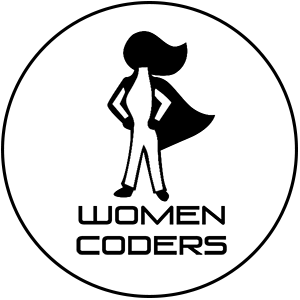
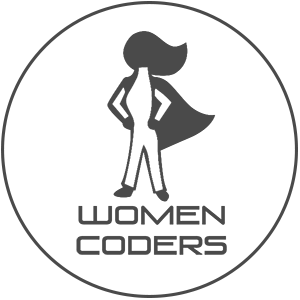
Changed Sponsorship to Scholarship
Circular buttons are now a different color

diff --git a/WOMENCODER-copy/css/responsive.css b/WOMENCODER-copy/css/responsive.css
@@ -6,14 +6,10 @@
 .mail-message [contenteditable="true"]{margin-bottom: 25px;}
 .navbar-nav > li {padding-left: 50px;}
 .item-container h4 {
-<<<<<<< HEAD
-       font-size: 5.5em;        
-=======
        font-size: 40px;        
->>>>>>> 25ee754b8cf29ba2ee0662ec59c669e860551e29
-    line-height: 1em;
-    margin-bottom: 40px;
-    margin-top: 40px;
+		line-height: 1em;
+		margin-bottom: 40px;
+		margin-top: 40px;
 	}
 	
 
@@ -23,14 +19,10 @@
 	.navbar-collapse {width: 100%;}
 	.navbar-collapse li{display:table;padding:0;margin:0 auto;}
 	.item-container h4 {
-<<<<<<< HEAD
-       font-size: 4em;        
-=======
-       font-size: 30px;        
->>>>>>> 25ee754b8cf29ba2ee0662ec59c669e860551e29
-    line-height: 1em;
-    margin-bottom: 40px;
-    margin-top: 40px;
+		font-size: 30px;        
+		line-height: 1em;
+		margin-bottom: 40px;
+		margin-top: 40px;
 	}
 	#heading-slider-style1 ,#heading-slider-style2{width:100%;	}
 	#about .avatar,#project-testimonial .avatar{width:100px;}
@@ -88,14 +80,10 @@
 @media (max-width: 480px){
 	body {font-size: 16px;}
 	.item-container h4 {
-<<<<<<< HEAD
-       font-size: 3em;        
-=======
-       font-size: 20px;        
->>>>>>> 25ee754b8cf29ba2ee0662ec59c669e860551e29
-    line-height: 1em;
-    margin-bottom: 40px;
-    margin-top: 40px;
+        font-size: 20px;        
+		line-height: 1em;
+		margin-bottom: 40px;
+		margin-top: 40px;
 	}
 	#heading-slider-style1 ,#heading-slider-style2{width:100%;	}
 	#about .avatar,#project-testimonial .avatar{width:100px;}
@@ -148,10 +136,10 @@
 @media (max-width : 320px) {
 	body {font-size: 14px;}
 	.item-container h4 {
-       font-size: 2em;        
-    line-height: 1em;
-    margin-bottom: 40px;
-    margin-top: 40px;
+       font-size: 10px;        
+		line-height: 1em;
+		margin-bottom: 40px;
+		margin-top: 40px;
 	}
 	#heading-slider-style1 ,#heading-slider-style2{width:100%;	}
 	#about .avatar,#project-testimonial .avatar{width:80px;}

diff --git a/WOMENCODER-copy/index.html b/WOMENCODER-copy/index.html
@@ -114,26 +114,17 @@
 					<!-- sponsorship button -->
 					<div class="item-container">
 						<div class="sponsorship-bar">
-						<h4> Sponsorship Program </h4>
-						<p>
-						We are hosting a sponsorship program for women to attend School of Dev's Bootcamp.
-						</p>
-						<div class="progress progress-striped active">
-							<div class="progress-bar"
-							role="progressbar"
-							aria-valuenow="500"
-							aria-valuemin="0"
-							aria-valuemax="100"
-							style="width: 2%">
-							<span class="sr-only">
-								$500 Raised!
-							</span>
-							</div>
-						</div>
+							<h4> <strong>Apply for our</strong> <br/>School of Devs Bootcamp Scholarship</h4>
+							<p>
+								Women Coders is working on raising funds to give 10 women full-ride scholarships to the School of Devs Bootcamp.
+							</p>
+							<p> 
+								Learn more about the bootcamp <strong><a href="http://schoolofdevs.com/" target="_blank"> here </a></strong>.
+							</p>
 						</div>
 
-					<a class="btn-circle show-work" href="http://stripe.com/" target="_blank">
-						<span>Donate!</span>
+					<a class="btn-circle show-work" href="http://google.com/" target="_blank">
+						<span>Apply Here</span>
 						<hr/>
 					</a>
 					</div>

diff --git a/WOMENCODER-copy/css/style.css b/WOMENCODER-copy/css/style.css
@@ -481,11 +481,7 @@ color:#333 !important;
  }
 .item-container h4{
 	color: #FFFFFF;
-<<<<<<< HEAD
-    font-size: 5em;
-=======
     font-size: 40px;
->>>>>>> 25ee754b8cf29ba2ee0662ec59c669e860551e29
     font-weight: 800;
     letter-spacing: 0;
     margin-bottom: 40px;
@@ -688,6 +684,7 @@ cite {display: block;font-style: normal;}
 }
 .btn-circle {
     background: none repeat scroll 0 0 padding-box rgba(255,159,45,.8);
+	background-color: #4a4a4a;
     border-radius: 78px;-webkit-border-radius: 78px;-moz-border-radius: 78px;-o-border-radius: 78px;-ms-border-radius: 78px;
     color: #FFFFFF;
     display: inline-block;
